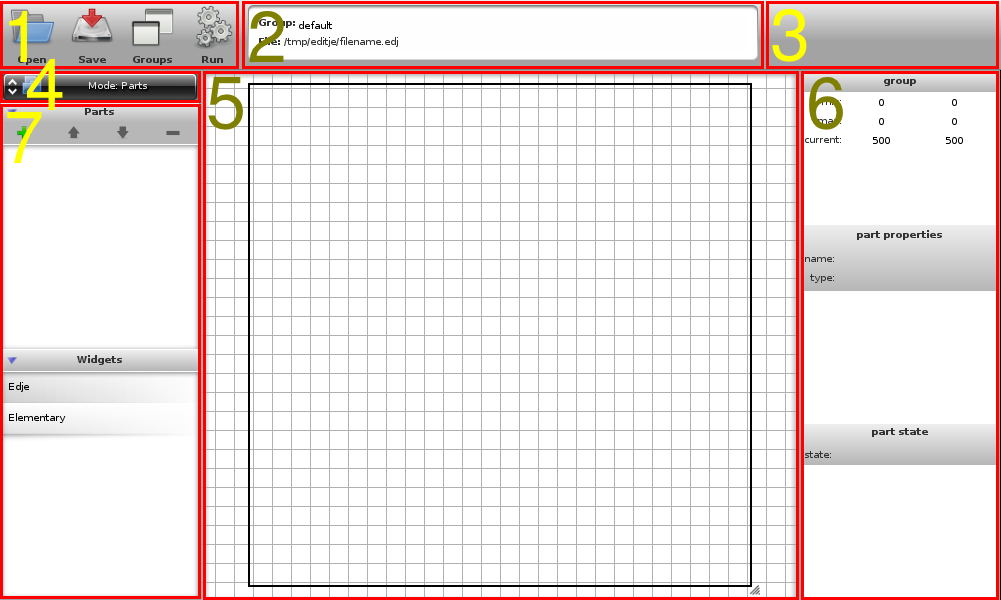
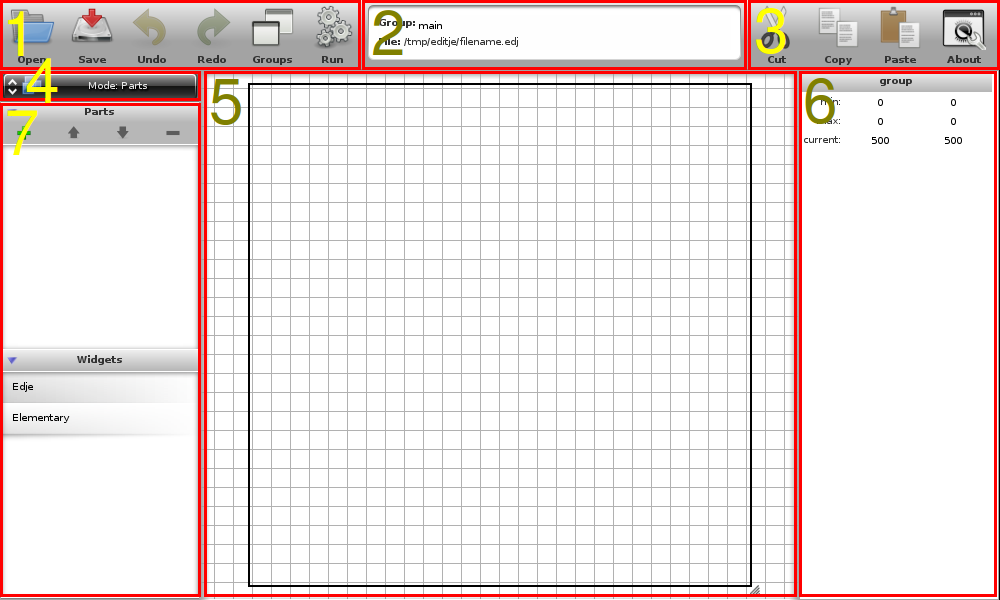
Updating docs. Must now update the image wizard info.
git-svn-id: http://svn.enlightenment.org/svn/e@47460 7cbeb6ba-43b4-40fd-8cce-4c39aea84d33

Changed region(s): [[0.0, 0.0, 1.0, 1.0], [0.0, 0.69, 0.062, 0.72], [0.0, 0.63, 0.031, 0.66]]

diff --git a/trunk/editje/doc/editje_manual.tex b/trunk/editje/doc/editje_manual.tex
@@ -72,20 +72,14 @@ file starts with just one group, named ``main'', with no parts and
 with a default size of 500x500 pixels. Group templates will come as an
 option to start new files, shortly.
 
-%% Editje may also be invoked with one or two arguments, which are,
-%% respectively:
-%% \begin{itemize}
-%%   \item path to file to open and
-%%   \item name of a group, in that edje file, to edit.
-%% \end{itemize}
-
 Editje may also be invoked with one argument, which is the path to a
 file to open. Whether you choose a file in the dialog shown in figure
-\ref{fig:open_file} or by giving its path in the command line, you'll
-get a dialog box asking for a group to edit, between the ones Editje
-finds inside the chosen file (see figure \ref{fig:choose_group}).
+\ref{fig:open_file} or you provide an \texttt{.edc} or \texttt{.edj}
+file path in the command line, you'll get a dialog box asking for a
+group to edit, between the ones Editje finds inside the chosen file
+(see figure \ref{fig:choose_group}).
 
-%FIXME: bad pic! we gotta fix the centering issue asap
+%FIXME: bad pic!
 \begin{figure}[h!]
   \centering
   \includegraphics[width=1.0\textwidth]{images/choose_group.png}
@@ -117,6 +111,15 @@ third page, asking for a name to the group to be created. From there,
 you may desist and go back one page or, if sure, create and start
 editing the fresh new group. This group will also be 500x500 sized and
 have no parts.
+
+Finally, there is a third way of invoking Editje, which is:
+
+\begin{verbatim}
+editje-bin <filename>:<groupname>
+\end{verbatim}
+
+This is a shortcut to have it opened directly on the editing window,
+with the group named ``\texttt{groupname}'' selected for edition.
 
 \section{Editje's Window}
 
@@ -158,6 +161,16 @@ them:
   on the group being left, so make sure you have them saved before
   switching groups.
 
+% undo/redo
+
+  The next two actions do what is expected: \GUIIcon{``Undo''} and
+  \GUIIcon{``Redo''} actions you took while editing your
+  group. Whenever there is no way to undo or redo from a point in the
+  edition, the respective action icon will be displayed grayed, which
+  is what you see in figure \ref{fig:main_window}. At this state,
+  those icons do not respond to mouse clicks. Note that if you switch
+  the group under edition, the undo history will be emptied.
+
   Finally, there's the \GUIIcon{``Run''} action. It will open a window
   with a \emph{live} version of the group being edited. You'll be
   able, then, to interact with it and test its behavior for user input
@@ -173,9 +186,17 @@ them:
 \item[3 -- Mode dependent actions] This region of the main screen is
   populated with action icons accordingly to the \emph{mode} Editje is
   working on (see region 4, which follows). For the initial
-  (``Parts'') mode, this region presents an icon which, when clicked,
-  will raise a box with author and licensing information of the edje
-  editor itself.
+  (``Parts'') mode, this region presents three actions one may take
+  for parts in the group: \GUIIcon{``Cut''}, \GUIIcon{``Copy''} and,
+  naturally, `\GUIIcon{``Paste''}. Both cut and copy actions will take
+  a snapshot of the selected part, if any (the former one will also
+  delete that part). The copy action will insert a \emph{copy} of the
+  last cut/copied part into the group. Note that this copy will have
+  all the properties equal to those of its source, \emph{including
+    geometry} -- it will be placed where the original one was copied
+  from. There is, under ``Parts'' mode, a fourth action icon --
+  \GUIIcon{``About''} -- which, when clicked, will raise a box with
+  author and licensing information of the edje editor itself.
 
 \item[4 -- Mode selection] Editje has \emph{three} modes in which it
   operates:
@@ -211,9 +232,11 @@ them:
 \item[6 -- Group and selected part properties] This is the region on
   the interface where the user will be able to \emph{see and edit} the
   properties of the group being edited and the selected part, if any
-  is selected. There are three collapsable groups of properties
-  there. You can show/hide them by clicking over their title labels,
-  which are:
+  is selected. There may be three collapsable groups of properties
+  there. Figure \ref{fig:main_window} shows only one because the other
+  two are related to the part under selection. If no part is selected,
+  they don't get displayed. You can collapse/expand any of those
+  groups by clicking over their title labels, which are:
 
   \begin{description}
     \item[\GUILabel{``group''}] properties of the group being edited
@@ -472,15 +495,19 @@ besides the \GUIIcon{``+''} one, if a part is selected, which are:
 \begin{description}
 \item[\GUIIcon{upwards arrow}] This is the re-stack \emph{above}
   action.
+
 \item[\GUIIcon{downwards arrow}] This is the re-stack \emph{below}
   action. It does the exact opposite of the former action,
   naturally. If you click on it with \texttt{Rectangle02} selected,
   being it on the state shown in figure \ref{fig:restack_pre}, you'll
   get what is depicted on figure \ref{fig:restack}:
   \texttt{Rectangle01} is now \emph{on top} of the other one.
+
 \item[\GUIIcon{``-''}] This is the part removal action. When clicked,
   the selected part will be totally removed from the group under
-  edition, along with all its states.
+  edition, along with all its states. If any animation exists for the
+  group, this part will be taken away from them (see section
+  \ref{sec:animations}).
 \end{description}
 
 \begin{figure}[h!]
@@ -570,8 +597,8 @@ figure, the cited region looked like figure
 \end{figure}
 
 This is where the selected part's properties which are \emph{bound to
-  a state} are shown and can be edited. The current state under
-edition for the part has its name displayed on region 1 (figure
+  a state} are shown and can be edited. The current state the part
+under edition is in has its name displayed on region 1 (figure
 \ref{fig:part_state_group}). Every new part will have only the default
 state after creation, which is called ``\texttt{default 0.0}'', as the
 reader may know. Except for the default one, states can be renamed by
@@ -588,7 +615,8 @@ respectively, the positioning of the \emph{top-left} and
 \emph{bottom-right} corners of the the part's container. Figure
 \ref{fig:rectangle_rel1rel2} highlights these two points for
 \texttt{Rectangle01}, which coincide with two of the part resizing
-squares.
+squares. The ``current'' label gets updated while a part is being
+resized.
 
 \begin{figure}[h!]
   \centering
@@ -647,7 +675,6 @@ figure \ref{fig:part_state_group}.
 \end{figure}
 
 \subsection{Managing Parts' States}
-%TODO: being worked on, let it outdated, for now.
 
 The ``part state'' collapsable group, seen in figure
 \ref{fig:part_state_group}, has a region which wasn't cited yet: 2. If
@@ -661,34 +688,46 @@ you click on that icon, you'll get the dialog box shown in figure
   \label{fig:states_dialog}
 \end{figure}
 
-Before returning to the actions there available, we'll create a
-\emph{new state} to \texttt{Rectangle01}, being the default one the
-one we get just after adding it to the group.
+That list displays the names of all the states the selected part has.
+The state under which the selected part is being displayed is marked
+with a tick sign, highlighted in red in figure
+\ref{fig:states_dialog}.
 
-%FIXME: text entry renames the state, now
-Region 1 of figure \ref{fig:part_state_group}, besides showing the
-current state's name for a part, is a text entry used to \emph{create}
-new states. If you click on it, edit the text changing
-\GUIEditable{``default''} to, say, \GUIEditable{``newstate''}, you'll
-have just \emph{cloned} the former into the latter. Click again over
-the icon in region 5 and you'll see what is depicted on figure
-\ref{fig:states_dialog_newstate}.
+The \GUIButton{``New''} button you see on that box will, naturally,
+lead to the creation of a new state for the part. An entry will be
+displayed, asking for a name for it (containing a previous
+suggestion). Type it in and hit the button \GUIButton{``Add''} to have
+it created. You'll see your part with the same (state bound)
+properties it had, because this new state is a \emph{copy of the one
+  the part was at} prior to its creation. Check the label seen on
+region 1 of figure \ref{fig:part_state_group}, though, and you'll see
+the name of the just created state displayed. Customize its properties
+as you wish, then.
+
+Starting from the state where we have our default
+``\texttt{Rectangle01}'' (figure \ref{fig:new_rectangle01}), let's
+create another state, for which we change the red channel of the
+part's color to 255, making it transparent yellow (see figure
+\ref{fig:new_state}).
 
 \begin{figure}[h!]
   \centering
-  \includegraphics[width=0.28\textwidth]{images/states_box_newstate.png}
-  \caption{Note the recently added state, ``newstate''}
-  \label{fig:states_dialog_newstate}
+  \includegraphics[width=1.0\textwidth]{images/new_state.png}
+  \caption{A new state created, having a property changed}
+  \label{fig:new_state}
 \end{figure}
 
-You may, now, change the state dependent properties of the selected
-part as you wish. For switching between states of a part, use the
-\GUIButton{``Select''} button seen on figure
-\ref{fig:states_dialog}. The \GUIButton{``Reset to''} button, on the
-same figure, will set the properties seen on the current state to
-those of the state selected on the list of that dialog. The
-\GUIButton{``Delete''} one will, naturally, delete the current state
-and \GUIButton{``Cancel''} will close that dialog.
+Then, click on the state selection icon again and select, in the list,
+the state ``\texttt{default 0.0}''. You'll be presented with the
+dialog seen on figure \ref{fig:state_actions}. The \GUIButton{``Change
+  to''} button, naturally, is the way to switch to the selected state.
+\GUIButton{``Reset to''} will copy all the properties of the selected
+state into the same ones of the \emph{current} one. If you choose to
+click on it from the example we suggested for this section, you'll see
+state ``\texttt{default01 0.0}'' have its color property reset to
+transparent green. Finally, \GUIButton{``Delete''} will remove the
+selected state (what is forbidden for the default one, thus the
+inactive state for it when ``\texttt{default 0.0}'' is selected).
 
 \section{Types of Parts and their Particularities}
 
@@ -1075,7 +1114,7 @@ figure, being them:
 %   \end{itemize}
 
 \section{Animations}
-\label{animation_editing}
+\label{sec:animations}
 
 Animations are programs ran one after another, setting the
 corresponding state to the affected parts. This is handled within
